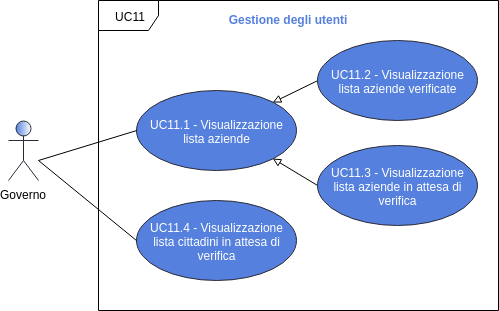
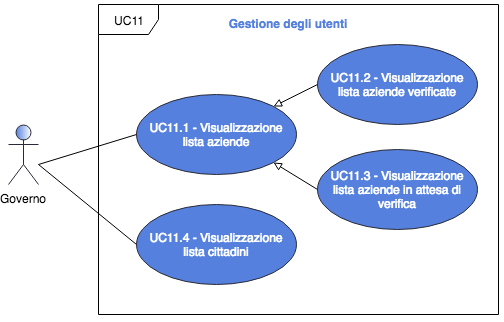
update uc11

diff --git a/RR/Esterni/Analisi_dei_requisiti/res/sections/UC/UC11-GestioneUtenti.tex b/RR/Esterni/Analisi_dei_requisiti/res/sections/UC/UC11-GestioneUtenti.tex
@@ -54,10 +54,10 @@
 	\item \textbf{Precondizione}: il sistema riconosce che l'utente è autenticato con privilegi governativi ed ha richiesto di ottenere la lista di tutte le aziende in attesa di verifica;
 	\item \textbf{Postcondizione}: il governo ottiene dal sistema la lista delle aziende in attesa di verifica, con associate le operazioni che può effettuare su di esse.
 \end{itemize}
-\subsubsection{UC11.4 - Visualizzazione lista cittadini in attesa di verifica}
+\subsubsection{UC11.4 - Visualizzazione lista cittadini}
 \begin{itemize}
 	\item \textbf{Attori Primari}: governo;
-	\item \textbf{Descrizione}: il governo ottiene la lista dei cittadini che sono in attesa di essere verificati per poter poi usufruire della piattaforma. Per ognuno di essi può:
+	\item \textbf{Descrizione}: il governo ottiene la lista dei cittadini. Per ognuno di essi può eseguire:
 	\begin{itemize}
 		\item visualizzazione della chiave\glosp Ethereum;
 		\item visualizzazione del nome;
@@ -65,7 +65,7 @@
 		\item visualizzazione della codice fiscale;
 		\item visualizzazione dell'indirizzo di residenza;
 	\end{itemize}
-	\item \textbf{Scenario principale}: il governo richiede la lista dei cittadini che sono in attesa di essere verificati. Per ognuno di essi visualizza alcune informazioni, assieme alla possibilità di accettare o rifiutare la proposta di iscrizione;
-	\item \textbf{Precondizione}: il sistema riconosce che l'utente è autenticato con privilegi governativi ed ha richiesto di ottenere la lista di tutti i cittadini in attesa di verifica;
-	\item \textbf{Postcondizione}: il governo ottiene dal sistema la lista dei cittadini in attesa di verifica, con associate le operazioni che può effettuare su di essi.
+	\item \textbf{Scenario principale}: il governo richiede la lista dei cittadini. Per ognuno di essi visualizza alcune informazioni;
+	\item \textbf{Precondizione}: il sistema riconosce che l'utente è autenticato con privilegi governativi ed ha richiesto di ottenere la lista di tutti i cittadini;
+	\item \textbf{Postcondizione}: il governo ottiene dal sistema la lista dei cittadini, con associate le operazioni che può effettuare su di essi.
 \end{itemize}
